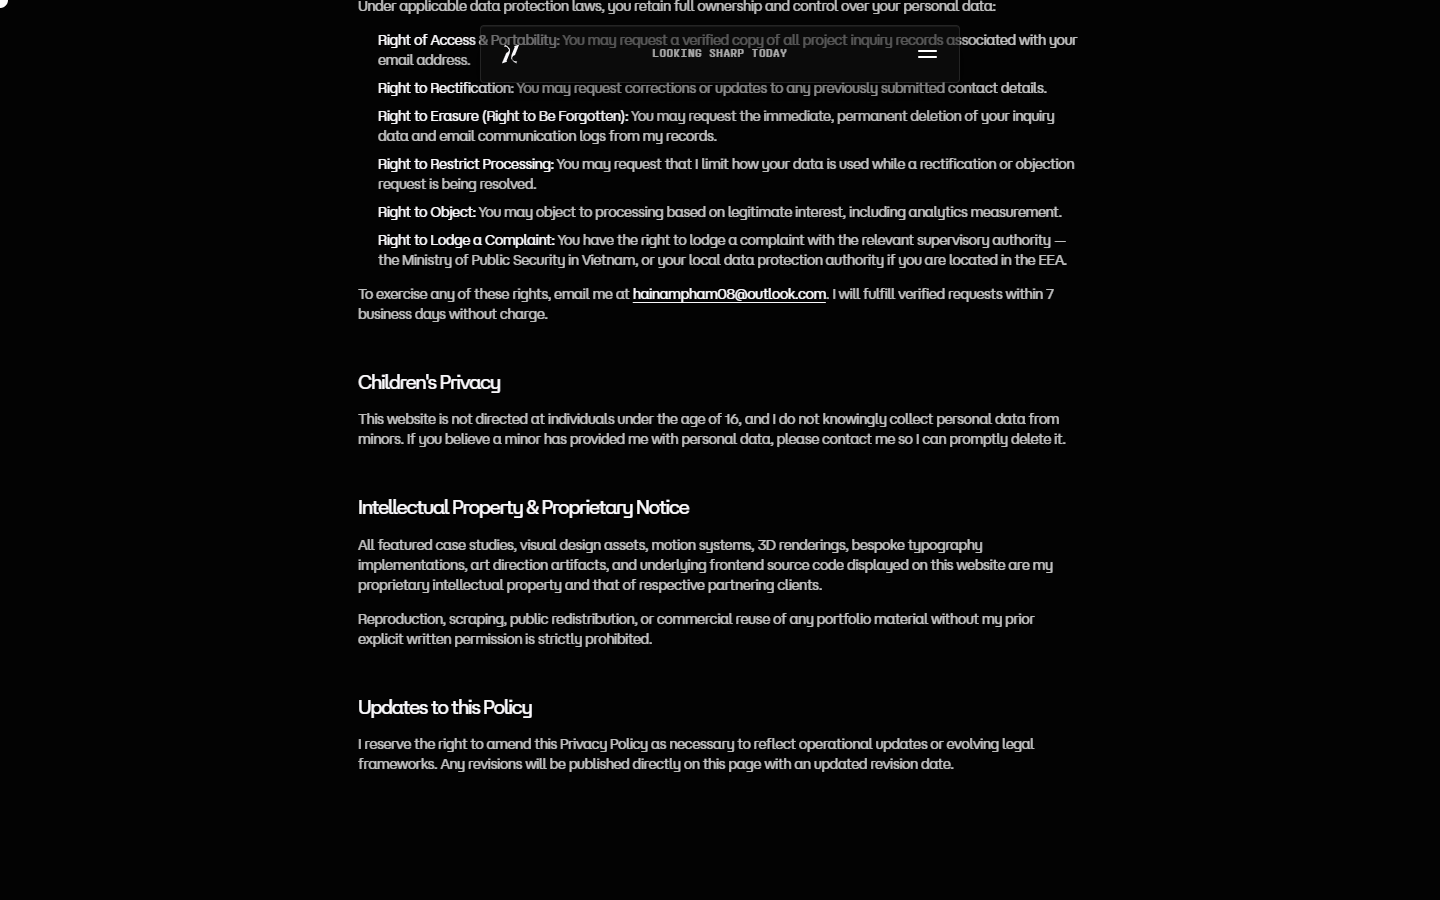
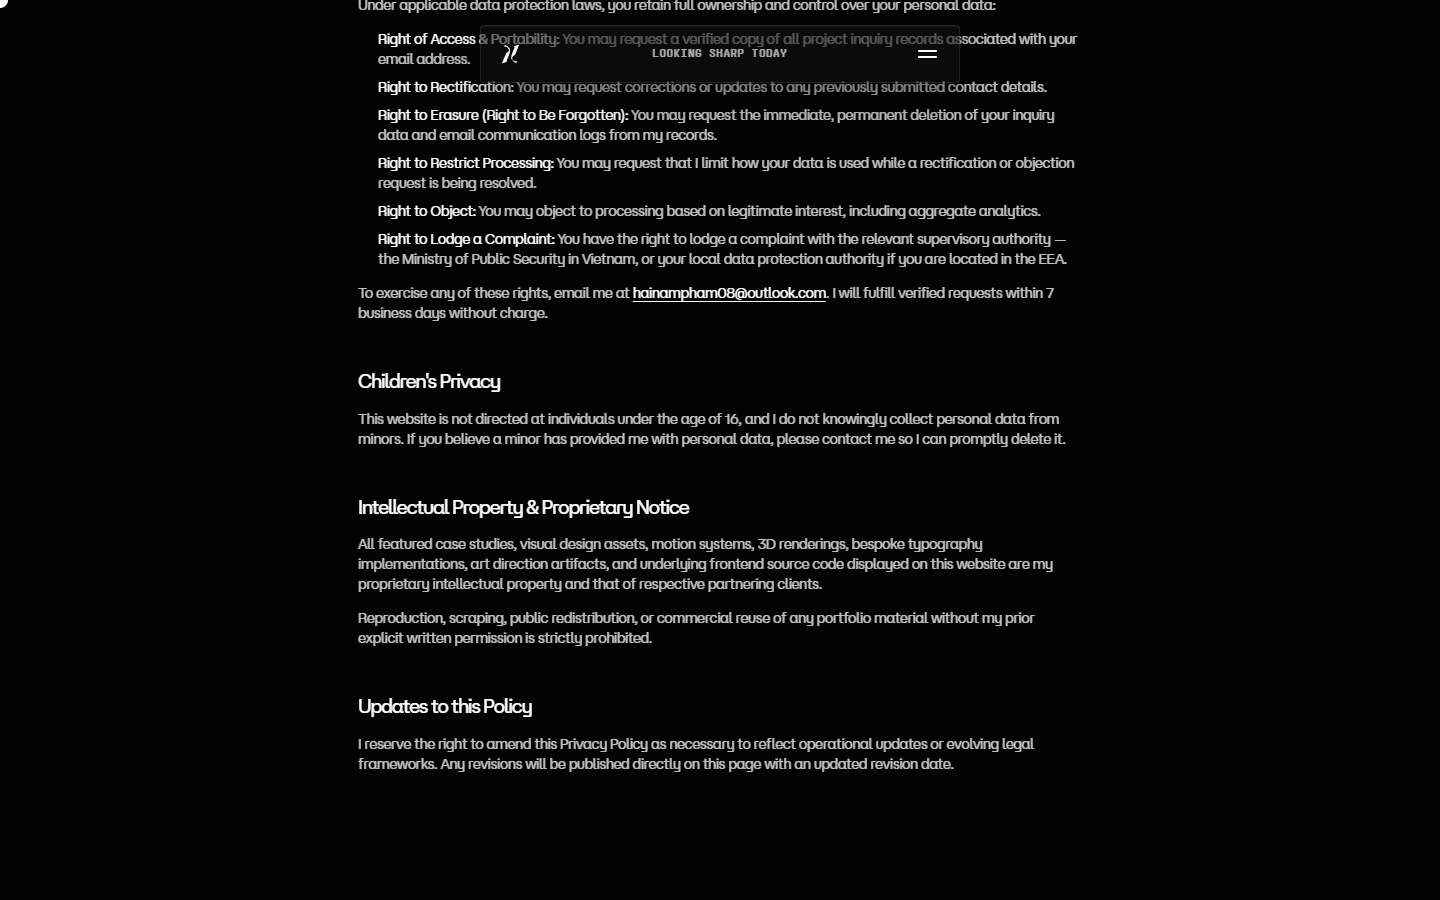
Update Privacy Policy with Cloudflare Web Analytics and privacy-first disclosures

diff --git a/privacy.html b/privacy.html
@@ -201,7 +201,7 @@
       <!-- Policy Sections -->
       <div class="privacy-content">
 
-        <!-- Section 1: Controller & Contact -->
+        <!-- Section 1: Data Controller & Contact Details -->
         <section class="privacy-section">
           <h2 class="privacy-section-heading type-aero-c">Data Controller &amp; Contact Details</h2>
           <p class="privacy-text type-aero-e">
@@ -238,10 +238,10 @@
           </p>
           <ul class="privacy-list">
             <li class="privacy-list-item type-aero-e">
-              <strong>Consent:</strong> For project inquiries submitted voluntarily through the contact form, and for non-essential analytics cookies (see below).
+              <strong>Consent:</strong> For project inquiries submitted voluntarily through the contact form.
             </li>
             <li class="privacy-list-item type-aero-e">
-              <strong>Legitimate Interest:</strong> For automated server logs, to maintain the security, integrity, and technical reliability of the website.
+              <strong>Legitimate Interest:</strong> For automated server logs and aggregate site analytics, to maintain the security, integrity, and technical reliability of the website and to understand aggregate visitor engagement.
             </li>
             <li class="privacy-list-item type-aero-e">
               <strong>Pre-contractual Steps:</strong> Where you contact me regarding a potential project, to take steps at your request prior to entering into a service agreement.
@@ -257,43 +257,18 @@
           </p>
         </section>
 
-        <!-- Section 5: Cookie Policy -->
+        <!-- Section 5: Cookies & Web Analytics -->
         <section class="privacy-section">
-          <h2 class="privacy-section-heading type-aero-c">Cookie Policy</h2>
+          <h2 class="privacy-section-heading type-aero-c">Cookies &amp; Web Analytics</h2>
           <p class="privacy-text type-aero-e">
-            This website uses cookies and similar storage technologies to enable core functionality and, where you consent, to measure site performance. A cookie is a small text file placed on your device by your browser.
+            This website does not use cookies of any kind &mdash; no advertising cookies, no cross-site trackers, and no analytics cookies.
           </p>
-          <ul class="privacy-list">
-            <li class="privacy-list-item type-aero-e">
-              <strong>Strictly Necessary Storage (no consent required):</strong> Used solely for essential functional UI state — this site does not currently set any strictly necessary cookies, but does use equivalent browser storage (see &ldquo;Cookies &amp; Local Storage&rdquo; below).
-            </li>
-            <li class="privacy-list-item type-aero-e">
-              <strong>Analytics Cookies (consent required):</strong> Set by Google Analytics to measure aggregate site usage. These are only activated after you accept analytics cookies via the cookie notice shown on your first visit.
-            </li>
-          </ul>
           <p class="privacy-text type-aero-e">
-            You can withdraw or change your cookie consent at any time by revisiting the cookie notice (typically accessible via a &ldquo;Cookie Preferences&rdquo; link in the site footer) or by adjusting your browser settings to block or delete cookies. Blocking analytics cookies does not affect your ability to browse or use the site.
+            To understand aggregate site traffic and performance, I use Cloudflare Web Analytics, a privacy-first analytics service. It collects only anonymized, aggregate data (page views and Core Web Vitals performance metrics) via a lightweight script. It does not set cookies, does not fingerprint your device, does not track you across visits, and does not build any individual visitor profile. Because no personal data or device storage is involved, no cookie consent banner is required for this service.
           </p>
         </section>
 
-        <!-- Section 6: Web Analytics & Measurement -->
-        <section class="privacy-section">
-          <h2 class="privacy-section-heading type-aero-c">Web Analytics &amp; Measurement</h2>
-          <p class="privacy-text type-aero-e">
-            To evaluate site performance, understand aggregate engagement, and optimize reader experience, I use Google Analytics with strict IP anonymization enabled (<code>anonymize_ip: true</code>).
-          </p>
-          <p class="privacy-text type-aero-e">
-            Your full IP address is truncated before storage and is never associated with any other personally identifiable data. Analytics data is analyzed purely in aggregate and is never used for behavioral advertising or profiling.
-          </p>
-          <p class="privacy-text type-aero-e">
-            Google Analytics is a non-essential cookie and is only activated after you provide consent via my cookie notice. You may withdraw this consent at any time by adjusting your cookie preferences or browser settings.
-          </p>
-          <p class="privacy-text type-aero-e">
-            Because Google Analytics is operated by Google LLC (United States), use of this service involves an international transfer of data outside Vietnam and the European Economic Area. This transfer is safeguarded by Google's Standard Contractual Clauses and Google's own data processing terms.
-          </p>
-        </section>
-
-        <!-- Section 7: Cookies & Local Storage -->
+        <!-- Section 6: Cookies & Local Storage -->
         <section class="privacy-section">
           <h2 class="privacy-section-heading type-aero-c">Cookies &amp; Local Storage</h2>
           <p class="privacy-text type-aero-e">
@@ -301,10 +276,10 @@
           </p>
           <ul class="privacy-list">
             <li class="privacy-list-item type-aero-e">
-              <strong>Session Intro State (<code>np_has_seen_intro</code>):</strong> Tracks whether the initial entry animation has already played during your browsing session to prevent repetitive interruptions.
+              <strong>Session Intro State:</strong> Tracks whether the initial entry animation has already played during your browsing session to prevent repetitive interruptions.
             </li>
             <li class="privacy-list-item type-aero-e">
-              <strong>Smooth Page Navigation (<code>np_is_navigating</code>):</strong> Manages the seamless cross-fade page transition curtain between case studies.
+              <strong>Smooth Page Navigation:</strong> Manages the seamless cross-fade page transition curtain between case studies.
             </li>
           </ul>
           <p class="privacy-text type-aero-e">
@@ -312,7 +287,7 @@
           </p>
         </section>
 
-        <!-- Section 8: Legal Compliance & Regulatory Framework -->
+        <!-- Section 7: Legal Compliance & Regulatory Framework -->
         <section class="privacy-section">
           <h2 class="privacy-section-heading type-aero-c">Legal Compliance &amp; Regulatory Framework</h2>
           <p class="privacy-text type-aero-e">
@@ -328,7 +303,7 @@
           </ul>
         </section>
 
-        <!-- Section 9: Your Rights as a Data Subject -->
+        <!-- Section 8: Your Rights as a Data Subject -->
         <section class="privacy-section">
           <h2 class="privacy-section-heading type-aero-c">Your Rights as a Data Subject</h2>
           <p class="privacy-text type-aero-e">
@@ -348,7 +323,7 @@
               <strong>Right to Restrict Processing:</strong> You may request that I limit how your data is used while a rectification or objection request is being resolved.
             </li>
             <li class="privacy-list-item type-aero-e">
-              <strong>Right to Object:</strong> You may object to processing based on legitimate interest, including analytics measurement.
+              <strong>Right to Object:</strong> You may object to processing based on legitimate interest, including aggregate analytics.
             </li>
             <li class="privacy-list-item type-aero-e">
               <strong>Right to Lodge a Complaint:</strong> You have the right to lodge a complaint with the relevant supervisory authority — the Ministry of Public Security in Vietnam, or your local data protection authority if you are located in the EEA.
@@ -359,7 +334,7 @@
           </p>
         </section>
 
-        <!-- Section 10: Children's Privacy -->
+        <!-- Section 9: Children's Privacy -->
         <section class="privacy-section">
           <h2 class="privacy-section-heading type-aero-c">Children's Privacy</h2>
           <p class="privacy-text type-aero-e">
@@ -367,7 +342,7 @@
           </p>
         </section>
 
-        <!-- Section 11: Intellectual Property & Proprietary Notice -->
+        <!-- Section 10: Intellectual Property & Proprietary Notice -->
         <section class="privacy-section">
           <h2 class="privacy-section-heading type-aero-c">Intellectual Property &amp; Proprietary Notice</h2>
           <p class="privacy-text type-aero-e">
@@ -378,7 +353,7 @@
           </p>
         </section>
 
-        <!-- Section 12: Updates to this Policy -->
+        <!-- Section 11: Updates to this Policy -->
         <section class="privacy-section">
           <h2 class="privacy-section-heading type-aero-c">Updates to this Policy</h2>
           <p class="privacy-text type-aero-e">
